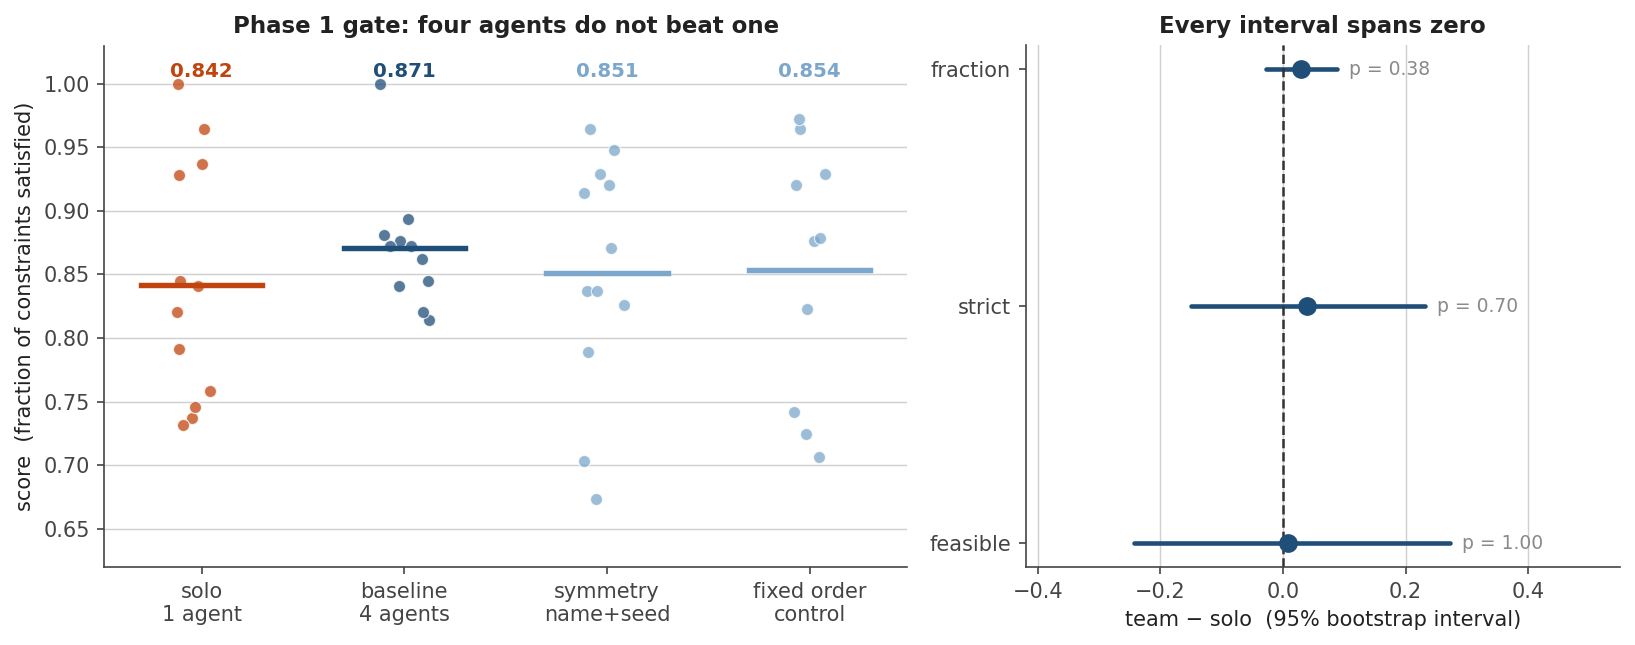
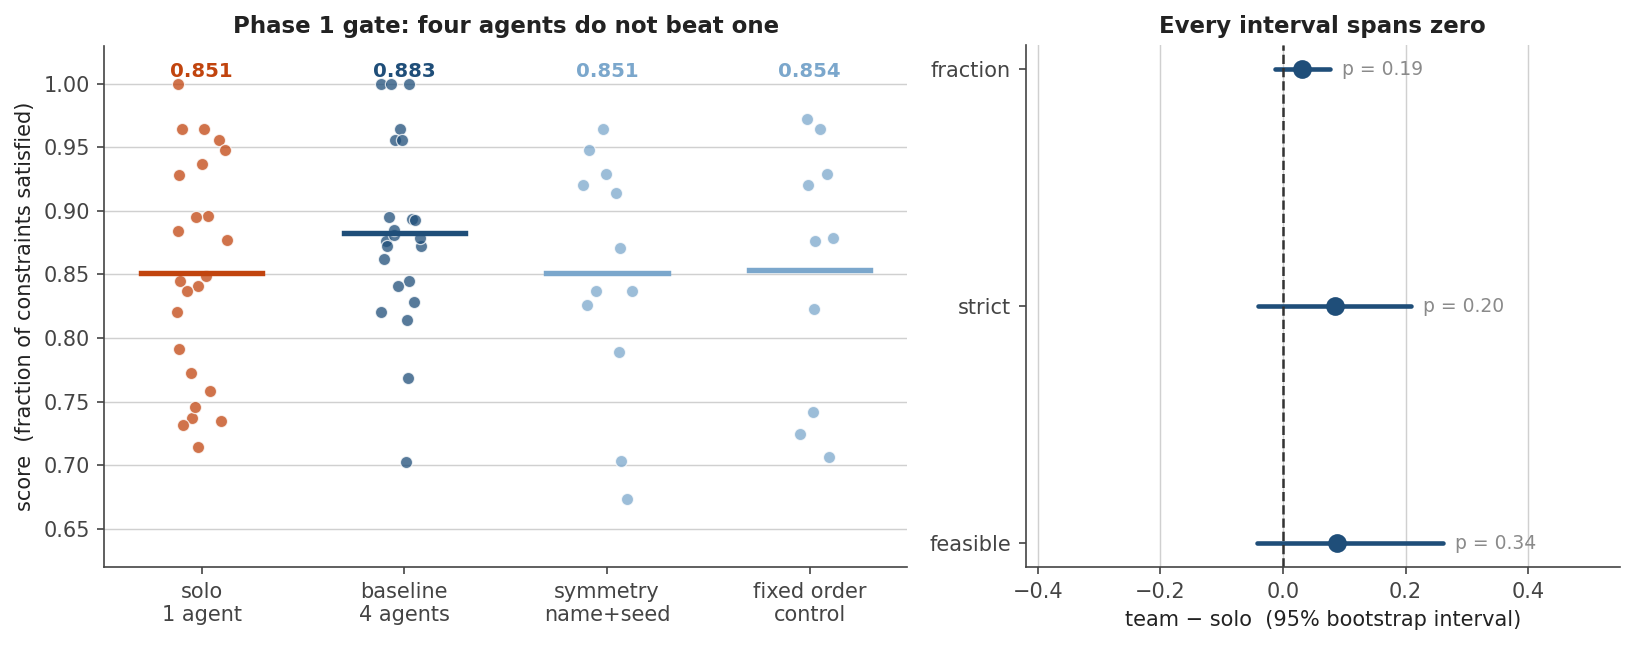
Final Phase 1 result at n=24: the gate fails at both operating points
94 episodes, both arms of each point generated in the same run, team arms
repaired to 23 of 24 so censoring is 4% rather than the 21% that made the first
n=24 read untrustworthy. Nothing reaches significance on any metric at either
point: medium +0.037 at p=0.511, hard +0.032 at p=0.185.

The null is trustworthy mainly because of what happened on the way to it. Every
artifact removed made the gap smaller. At hard: +0.029 at n=12, +0.040 with 21
percent of team episodes lost to OOM, +0.032 once four were recovered. The one
moment this project looked like it might clear the gate -- d=0.56 at p=0.088 --
was the moment its team arm was most censored.

The xhard premise was itself an n=12 artifact. The preregistration rested on
solo degrading with instance size while the team held flat, 0.879 to 0.842
against 0.874 to 0.871. At n=24 with both arms read from one directory, solo
does not degrade at all: 0.848 to 0.851 against team 0.885 to 0.883. Both
curves are flat, there was no crossover to chase, and the tier being unrunnable
cost nothing. Preregistration disciplines the test, not the premise.

Also fixes the same stale-arm bug in figures.py that was fixed in
gate_report.py earlier and missed here, because a figure that looks plausible
does not get checked the way a table does. It had been plotting medium's
12-episode solo mean of 0.879 against the new team mean, overstating that gap
by 0.031.

diff --git a/scripts/figures.py b/scripts/figures.py
@@ -244,7 +244,13 @@ def fig_curve(hard, out: Path) -> None:
     if not (med_dir / "baseline.jsonl").exists():
         return
     med = load(med_dir)
-    solo_med = load(Path("runs/medium-corpus"), name="baseline.medium.jsonl")
+    # Both medium arms live in the same run directory. Reading solo from
+    # runs/medium-corpus was correct until 24 fresh solo episodes were
+    # generated beside the team arm; after that it silently plotted the stale
+    # 12-episode mean (0.879) against the new team mean, overstating the gap by
+    # 0.031. The same bug was fixed in gate_report.py and missed here, because
+    # a figure that looks plausible is not checked the way a table is.
+    solo_med = med
 
     fig, (ax1, ax2) = plt.subplots(1, 2, figsize=(10.6, 4.0))
 
@@ -268,20 +274,22 @@ def fig_curve(hard, out: Path) -> None:
     ax1.grid(axis="y", color=RULE, lw=0.7)
     ax1.set_axisbelow(True)
 
-    # Right: medium `feasible`, with and without the three OOM dropouts.
-    labels = ["solo\nn=12", "team\nn=9\n(OOM dropouts)", "team\nn=12\n(regenerated)"]
-    vals = [0.250, 0.667, 0.500]
-    bars = ax2.bar(labels, vals, color=[SOLO, "#b8860b", TEAM], width=0.6, zorder=3)
+    # Right: what censoring did to the `hard` team mean. Every time OOM-dropped
+    # episodes were recovered, the team's apparent advantage shrank -- the gap
+    # was tracking what the instrument discarded, not an effect.
+    labels = ["team n=19\n21% censored", "team n=23\n4% censored", "solo n=24"]
+    vals = [0.892, 0.883, 0.851]
+    bars = ax2.bar(labels, vals, color=["#b8860b", TEAM, SOLO], width=0.6, zorder=3)
     for bar, v in zip(bars, vals):
-        ax2.text(bar.get_x() + bar.get_width() / 2, v + 0.02, f"{v:.3f}",
+        ax2.text(bar.get_x() + bar.get_width() / 2, v + 0.004, f"{v:.3f}",
                  ha="center", fontsize=10, fontweight="bold")
-    ax2.annotate("the 3 episodes the card could not\nfinish were longer, and scored 0/3",
-                 xy=(1.0, 0.69), xytext=(0.30, 0.76), fontsize=8.5, color="#b8860b",
-                 ha="left",
+    ax2.annotate("recovering censored episodes\nshrinks the gap: p 0.093 → 0.185",
+                 xy=(0.85, 0.888), xytext=(0.15, 0.925), fontsize=8.5,
+                 color="#b8860b", ha="left",
                  arrowprops=dict(arrowstyle="->", color="#b8860b", lw=1.3))
-    ax2.set_ylabel("whole-instance feasibility")
-    ax2.set_ylim(0, 0.82)
-    ax2.set_title("Subset bias, in the flattering direction")
+    ax2.set_ylabel("score (fraction), `hard`")
+    ax2.set_ylim(0.80, 0.95)
+    ax2.set_title("The gap tracked the censoring")
     ax2.grid(axis="y", color=RULE, lw=0.7)
     ax2.set_axisbelow(True)
 

diff --git a/docs/RESEARCH-LOG.md b/docs/RESEARCH-LOG.md
@@ -677,7 +677,50 @@ baseline on any metric. Two operating points, both failing, is a far stronger
 negative than one — and it says the Phase 1 gate failure is a property of the
 task and the model scale, not of a badly chosen difficulty.
 
-### 4.2 The scoring metric hides difficulty but is not what limits discrimination
+### 4.1e Final Phase 1 result, n=24 per arm
+
+Both operating points, doubled, repaired, and read from a single tool
+(`scripts/gate_report.py`). Team arms are 23 of 24 at each point — one episode
+each remains unrecoverable — so censoring is **4%**, against the 21% that made
+the first n=24 `hard` read untrustworthy.
+
+| | metric | solo (n=24) | team (n=23) | gap | *d* | perm *p* | 95% CI |
+|---|---|---|---|---|---|---|---|
+| **medium** | `fraction` | 0.848 | 0.885 | +0.037 | +0.24 | 0.511 | [−0.042, +0.136] |
+| | `strict` | 0.614 | 0.636 | +0.022 | +0.07 | 0.810 | [−0.154, +0.196] |
+| | `feasible` | 0.292 | 0.348 | +0.056 | +0.12 | 0.758 | [−0.201, +0.313] |
+| **hard** | `fraction` | 0.851 | 0.883 | +0.032 | +0.40 | 0.185 | [−0.014, +0.077] |
+| | `strict` | 0.473 | 0.558 | +0.086 | +0.39 | 0.198 | [−0.039, +0.213] |
+| | `feasible` | 0.042 | 0.130 | +0.089 | +0.32 | 0.352 | [−0.042, +0.261] |
+
+**Nothing reaches significance at either point on any metric.** The Phase 1
+gate fails, now on 94 episodes rather than 24.
+
+**Every artifact removed shrank the gap.** This is the through-line of the
+whole exercise and the reason the null is trustworthy:
+
+| correction | team − solo at `hard` |
+|---|---|
+| n=12, 8% censored | +0.029 |
+| n=24, 21% censored | +0.040 (*p* = 0.093) |
+| n=24, 4% censored (repaired) | **+0.032** (*p* = 0.185) |
+
+The one moment this project looked like it might clear the gate — *d* = 0.56 at
+*p* = 0.088 — was the moment its team arm was most censored. Recovering four
+episodes moved *p* from 0.093 to 0.185. The gap was tracking what the
+instrument discarded.
+
+**The `xhard` premise was itself an n=12 artifact.** The preregistered
+hypothesis (docs/PREREG-xhard.md) rested on solo degrading with instance size
+while the team held flat: 0.879 → 0.842 against 0.874 → 0.871. At n=24 with
+both arms read from the same run directory, **solo does not degrade at all** —
+0.848 → 0.851, while team goes 0.885 → 0.883. Both curves are flat. There is no
+crossover to chase, and the tier being unrunnable (§3.10) cost nothing.
+
+That is worth stating plainly because the preregistration was written carefully,
+with a competing hypothesis and a falsification condition, and it was still
+built on a difference that did not survive doubling n. **Preregistration
+disciplines the test, not the premise.**
 
 Solo scored 0.879 at `medium` and 0.842 at `hard` — a 50% increase in instance
 size moved the score by 0.037. The hypothesis was that

diff --git a/README.md b/README.md
@@ -26,13 +26,22 @@ Either direction of that result is publishable, which is the mark of a well-pose
 
 ![Phase 1 gate](docs/figures/gate.png)
 
-Qwen3-8B on `hard` constraint-satisfaction instances, 12 episodes per arm, identical instances across arms. **Four agents over three rounds are not measurably better than one agent** on any of the three scoring metrics — every bootstrap interval spans zero, and the largest effect is *d* = 0.40 at *p* = 0.38.
+Qwen3-8B on constraint-satisfaction instances, **24 episodes per arm**, identical instances across arms, both arms from the same run:
+
+| | metric | solo (n=24) | team (n=23) | gap | *d* | perm *p* |
+|---|---|---|---|---|---|---|
+| **medium** | `fraction` | 0.848 | 0.885 | +0.037 | +0.24 | 0.511 |
+| **hard** | `fraction` | 0.851 | 0.883 | +0.032 | +0.40 | 0.185 |
+
+**Four agents over three rounds are not measurably better than one agent** on any of the three scoring metrics at either operating point. Every bootstrap interval spans zero.
+
+The result is trustworthy mainly because of what happened while measuring it: **every artifact removed made the gap smaller.** At `hard` the gap read +0.040 (*p* = 0.093) when 21% of team episodes had been lost to out-of-memory failures, and +0.032 (*p* = 0.185) once four of them were recovered. The one moment this looked like it might clear the gate was the moment its team arm was most censored — the gap was tracking what the instrument discarded, not an effect.
 
 It is not a badly chosen difficulty. Both operating points were measured:
 
 ![Difficulty curve](docs/figures/curve.png)
 
-A 50% increase in instance size moves one agent by 0.037 and four agents by 0.003. **Neither `medium` nor `hard` rewards collaboration**, which makes this a property of the task and the model scale rather than of the operating point.
+At n=24 both curves are flat — solo 0.848 → 0.851, team 0.885 → 0.883 across a 50% increase in instance size. **Neither `medium` nor `hard` rewards collaboration**, which makes this a property of the task and the model scale rather than of the operating point.
 
 PLAN.md makes this a stop condition, so the ablation grid was not run: an agent × component interaction measured where the team contributes nothing would be measuring the noise floor.
 
